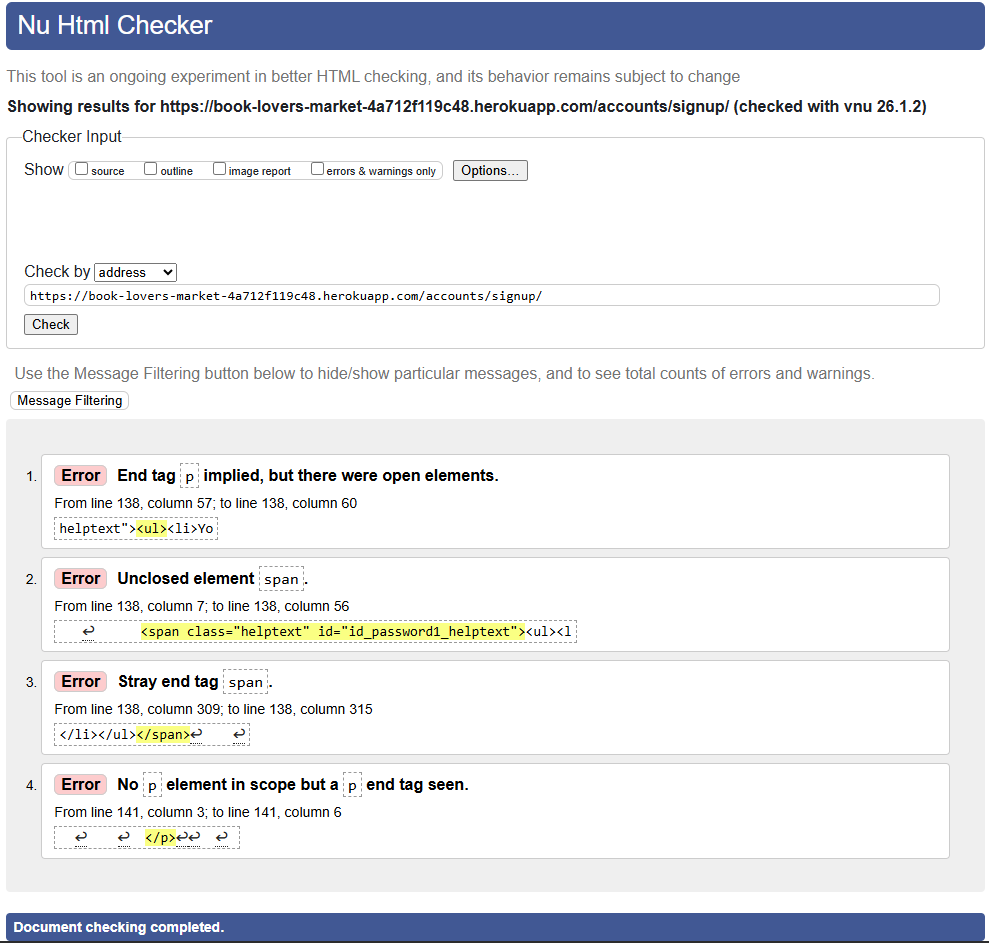
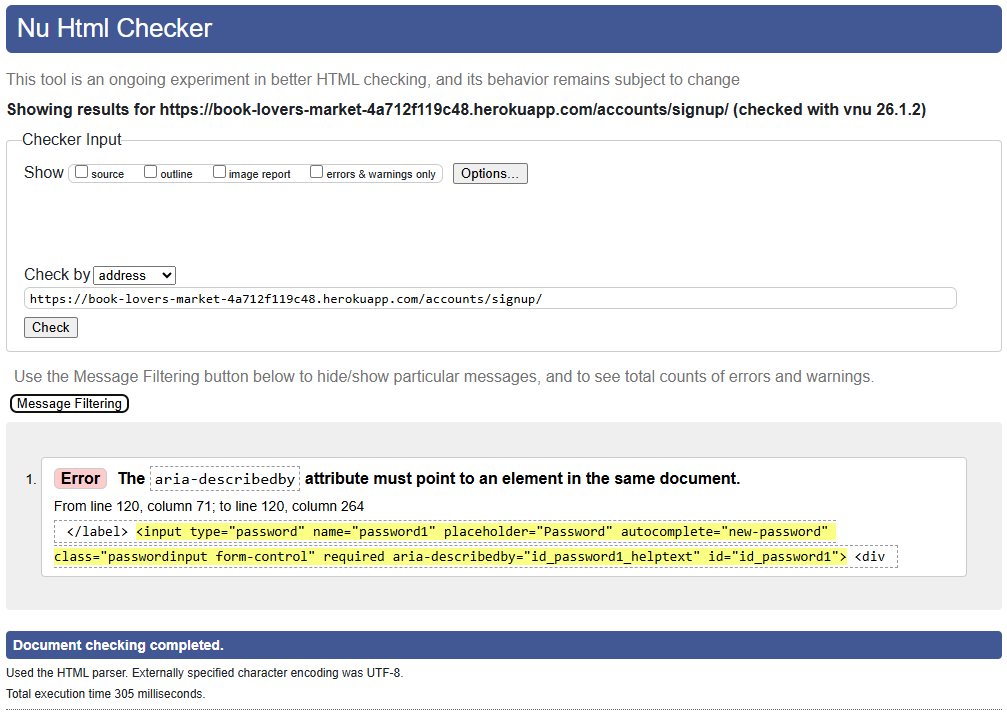
Update TESTING with html validation checks

Changed region(s): [[0.0, 0.0, 1.0, 1.0], [0.9707, 0.3394, 1.0, 0.3703]]

diff --git a/TESTING.md b/TESTING.md
@@ -20,5 +20,6 @@ Direct links to the results have been added unless made impossible due to login/
 | pages | [home.html](https://github.com/Gary-Burke/book-lovers-market/blob/main/pages/templates/pages/home.html) | [Results Link](https://validator.w3.org/nu/?doc=https%3A%2F%2Fbook-lovers-market-4a712f119c48.herokuapp.com%2F) | ![screenshot](documentation/testing/validation/html-pages-home.png) | No errors or warnings |
 | templates | [login.html](https://github.com/Gary-Burke/book-lovers-market/blob/main/templates/account/login.html) | [Results Link](https://validator.w3.org/nu/?doc=https%3A%2F%2Fbook-lovers-market-4a712f119c48.herokuapp.com%2Faccounts%2Flogin%2F) | ![screenshot](documentation/testing/validation/html-templates-login.png) | No errors or warnings |
 | templates | [logout.html](https://github.com/Gary-Burke/book-lovers-market/blob/main/templates/account/logout.html) | [Results Link](https://validator.w3.org/nu/?doc=https%3A%2F%2Fbook-lovers-market-4a712f119c48.herokuapp.com%2Faccounts%2Flogout%2F) | ![screenshot](documentation/testing/validation/html-templates-logout.png) | No errors or warnings |
-| templates | [signup.html](https://github.com/Gary-Burke/book-lovers-market/blob/main/templates/account/signup.html) | [Results Link](https://validator.w3.org/nu/?doc=https%3A%2F%2Fbook-lovers-market-4a712f119c48.herokuapp.com%2Faccounts%2Fsignup%2F) | ![screenshot](documentation/testing/validation/html-templates-signup.png) | These errors are related to Django Allauth forms and are outside of my control |
+| templates | [signup.html](https://github.com/Gary-Burke/book-lovers-market/blob/main/templates/account/signup.html) | [Results Link](https://validator.w3.org/nu/?doc=https%3A%2F%2Fbook-lovers-market-4a712f119c48.herokuapp.com%2Faccounts%2Fsignup%2F) | ![screenshot](documentation/testing/validation/html-templates-signup.png) | This error is related to Django Allauth forms and are outside of my control |
+| templates | [password_reset_done.html](https://github.com/Gary-Burke/book-lovers-market/blob/main/templates/account/signup.html) | [Results Link](https://validator.w3.org/nu/?doc=https%3A%2F%2Fbook-lovers-market-4a712f119c48.herokuapp.com%2Faccounts%2Fpassword%2Freset%2Fdone%2F) | ![screenshot](documentation/testing/validation/html-templates-password-reset-done.png) | This error is related to Django Allauth forms and are outside of my control |
 
